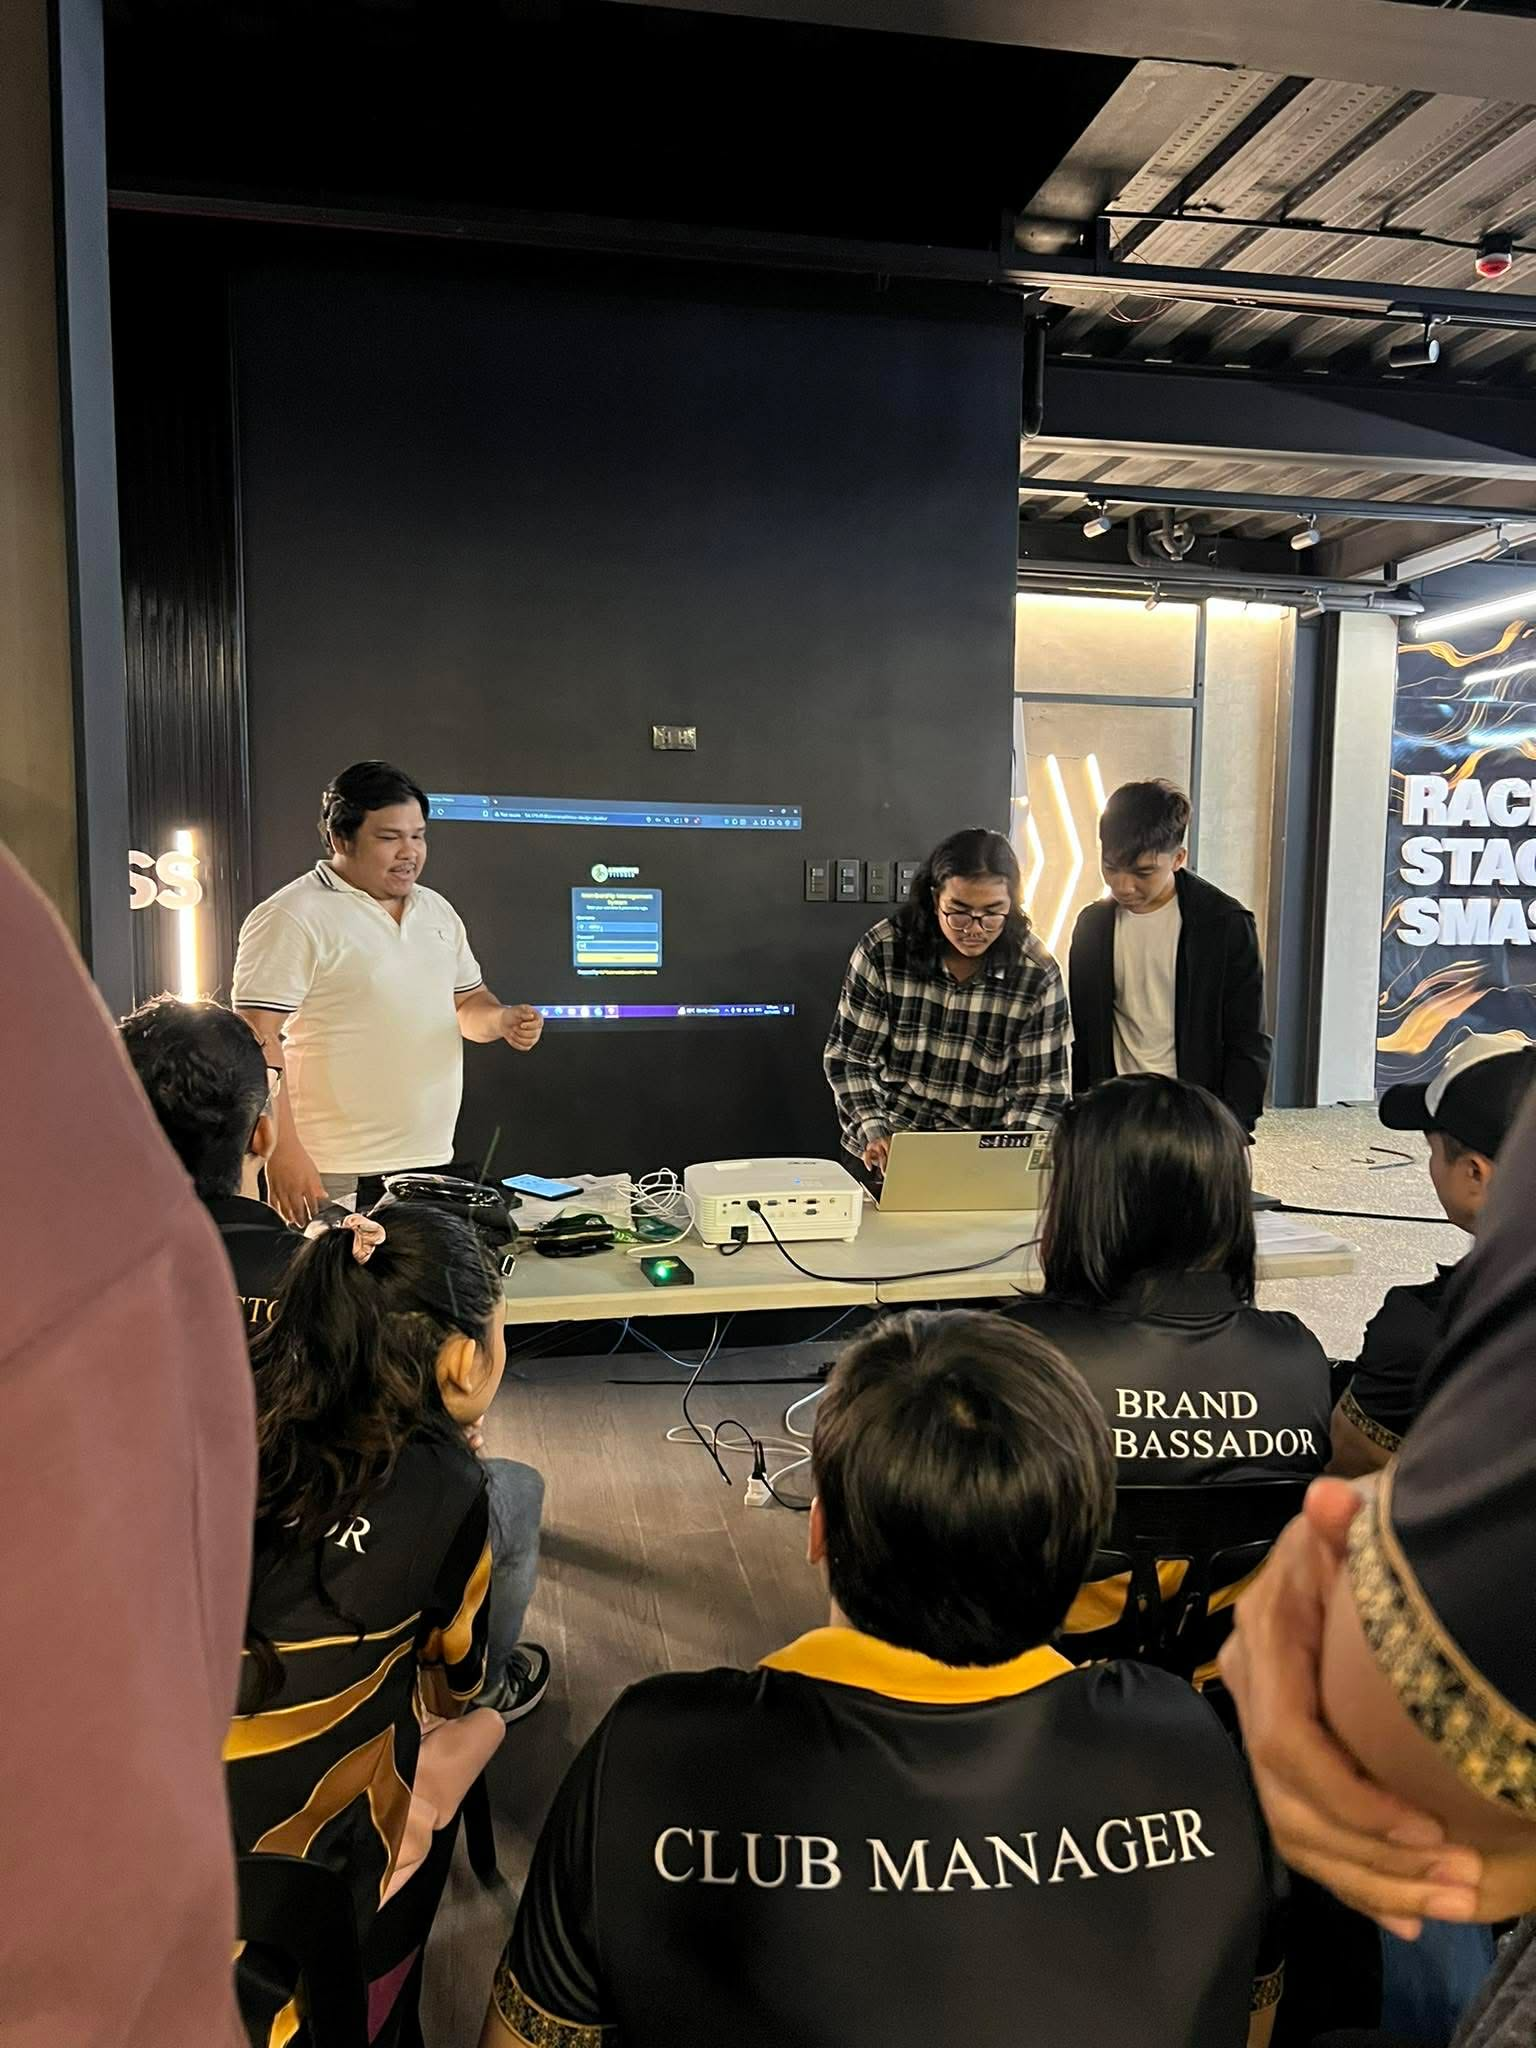
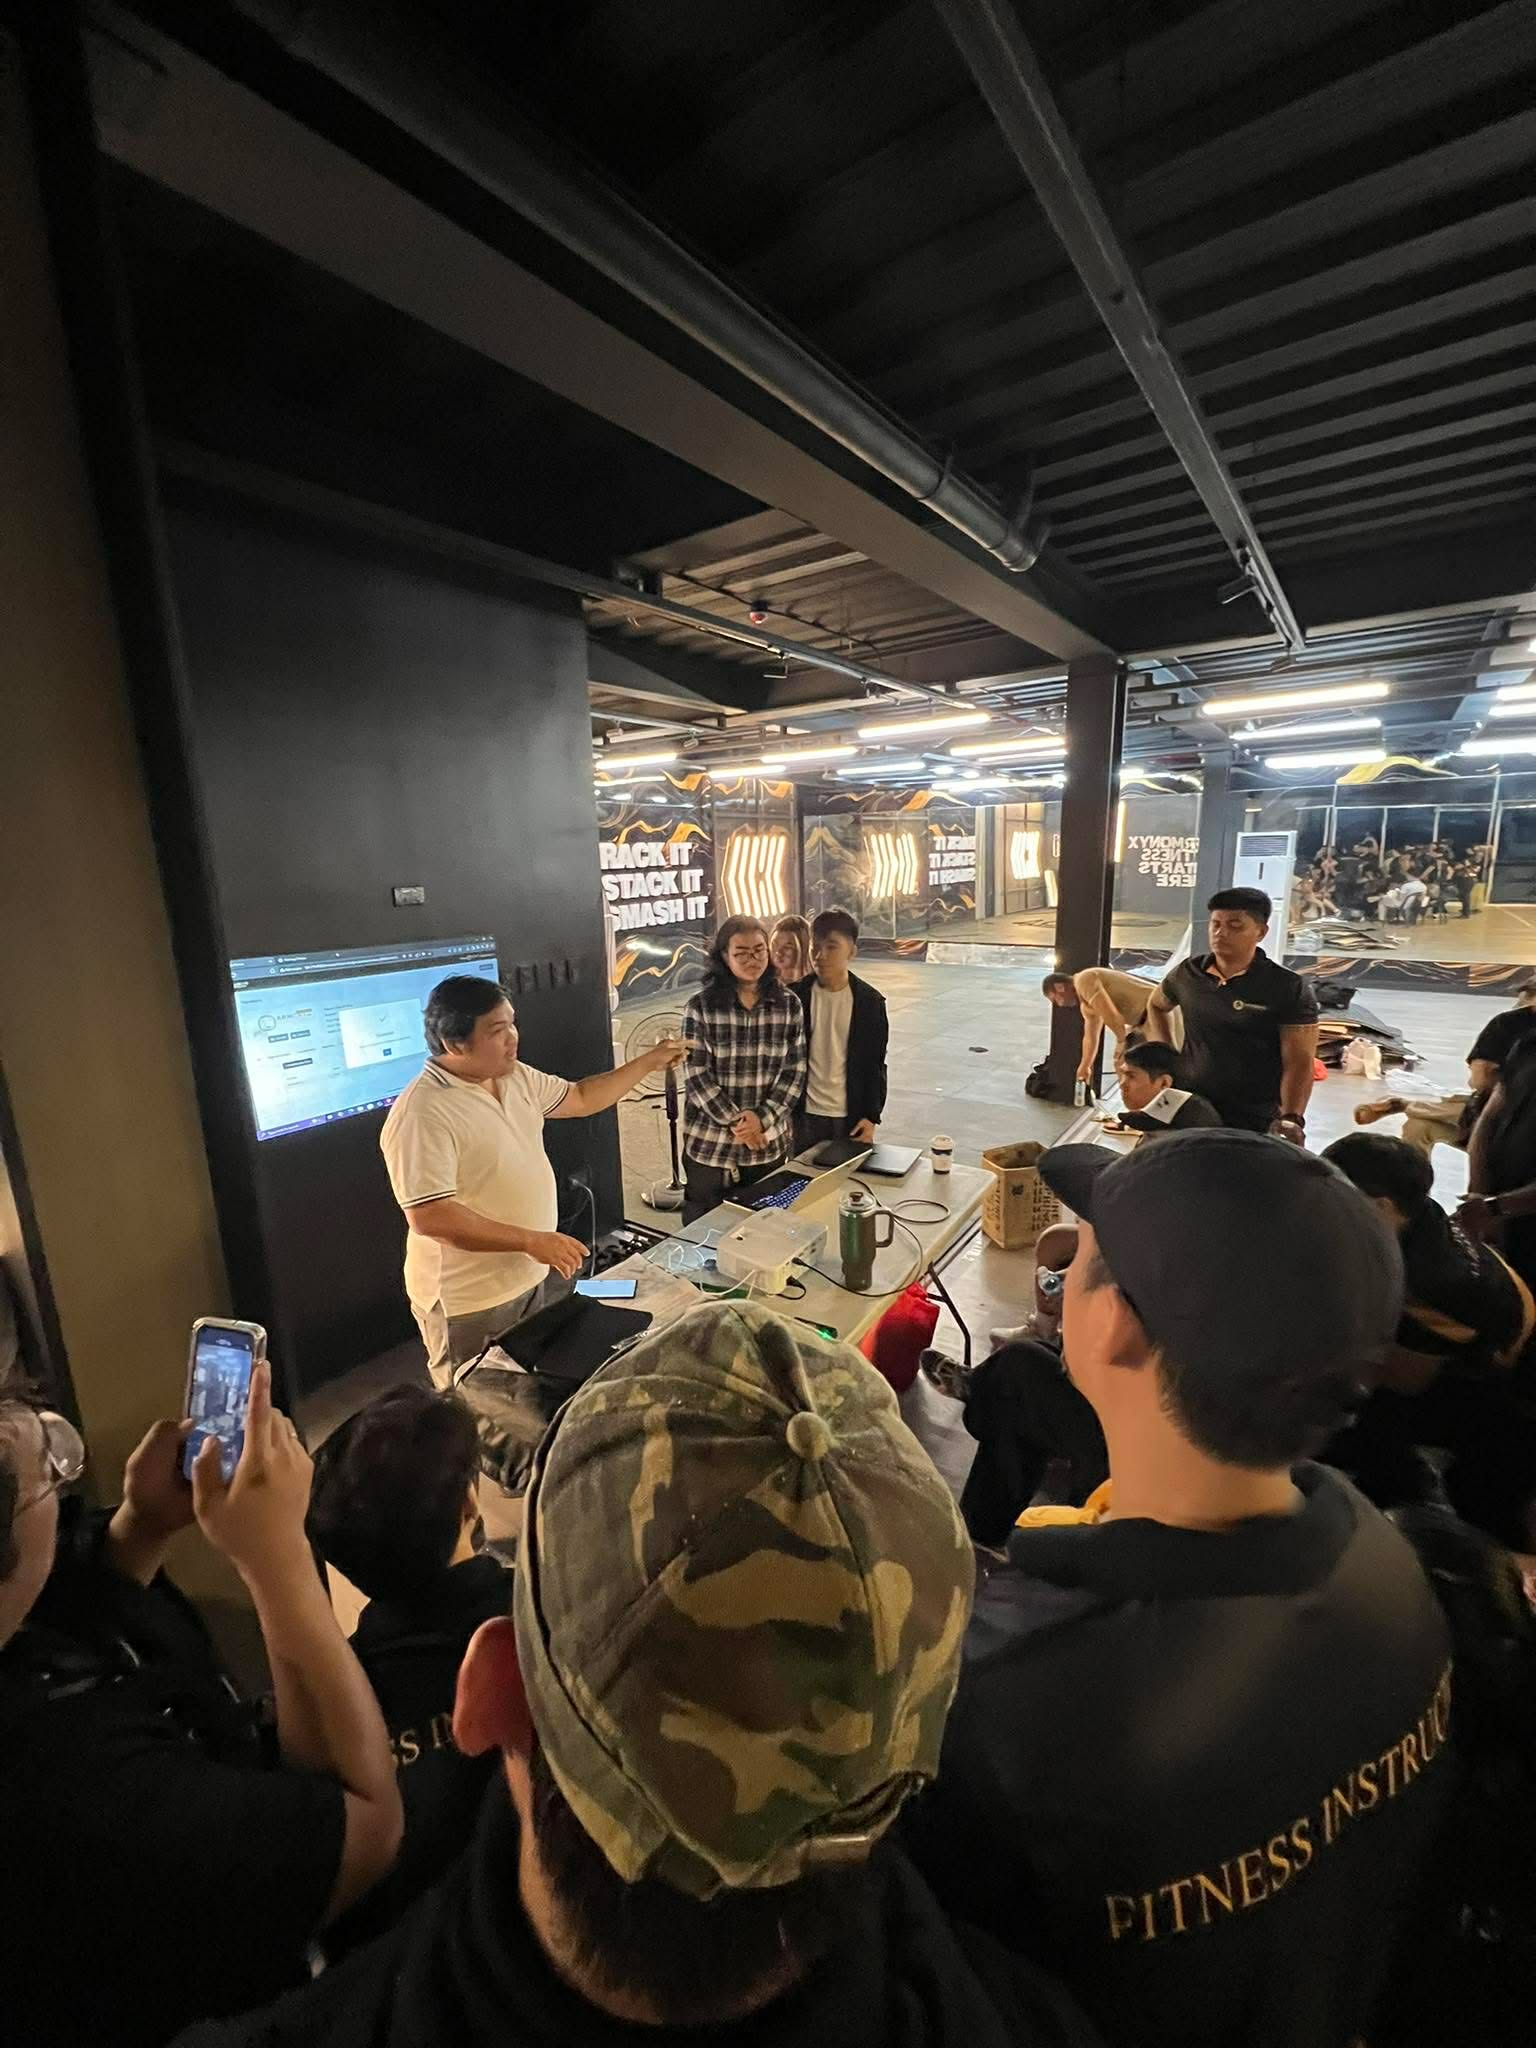
Updates ulit

diff --git a/app/Views/pages/projects.php b/app/Views/pages/projects.php
@@ -26,7 +26,7 @@ $rest     = array_values(array_filter($projects, static fn (array $p): bool => e
 <?php $this->start('content') ?>
 
 <div class="projects-surface" data-theme="dark">
-<section class="section projects-head page-intro" data-theme="dark" aria-labelledby="projects-heading">
+<section class="section projects-head page-intro" data-theme="dark" aria-labelledby="projects-heading" style="padding-top: 100px">
   <div class="shell">
     <p class="mono section__label">Projects / 03</p>
     <h1 id="projects-heading" class="section__title">Selected work.</h1>
@@ -37,7 +37,7 @@ $rest     = array_values(array_filter($projects, static fn (array $p): bool => e
   </div>
 </section>
 
-<section class="section section--tight project-showreel" data-theme="dark" aria-label="3AM showreel">
+<section class="section section--tight project-showreel" data-theme="dark" aria-label="3AM showreel" style="padding-top: 0">
   <div class="shell">
     <div class="showreel-heading"><p class="mono section__label">In the field</p><span class="mono">3AM showreel</span></div>
     <?= $this->partial('partials.frame', ['slot' => 'track.featured']) ?>
